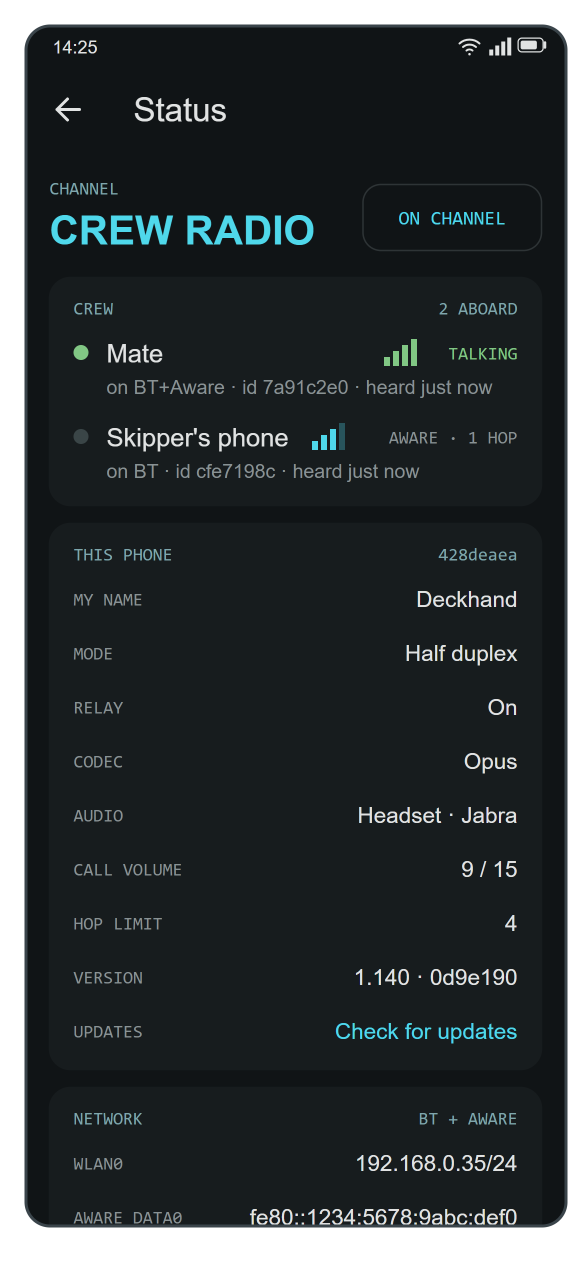
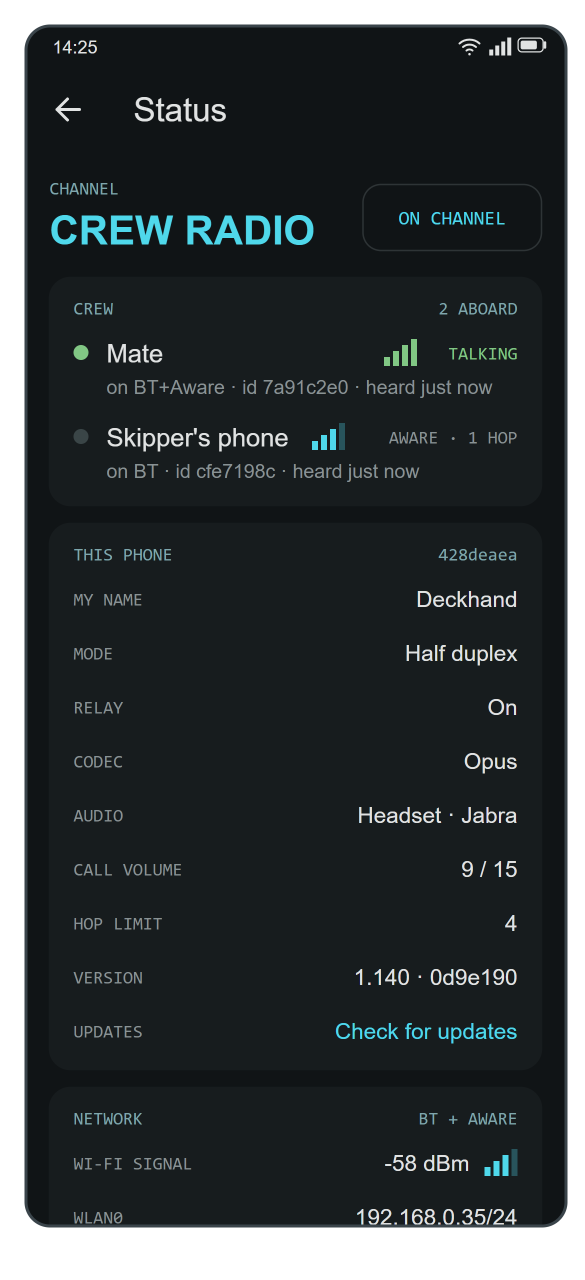
Review: the Wi-Fi signal first in NETWORK, and edge to edge is API 35
The WI-FI SIGNAL row moves to the top of the NETWORK card, where a glance
finds it and where the mock-up, cut at the screen edge as a screenshot is,
actually shows it; both Status drawings re-exported. The edge-to-edge
comment named targetSdk 36 as the threshold; Android 15 enforces it from 35.

Changed region(s): [[0.4308, 0.875, 0.8923, 0.9688], [0.1538, 0.9062, 0.3077, 0.9688], [0.1231, 0.9375, 0.1538, 0.9688]]

diff --git a/app/src/main/java/fi/crewradio/StatusActivity.kt b/app/src/main/java/fi/crewradio/StatusActivity.kt
@@ -178,14 +178,15 @@ class StatusActivity : AppCompatActivity() {
 
         card(R.string.card_network).let { (aside, rows) ->
             netAside = aside
-            nicRows = LinearLayout(this).apply { orientation = LinearLayout.VERTICAL }
-            rows.addView(nicRows)
+            // The Wi-Fi link first, where a glance finds it, then whatever interfaces the phone has.
             rows.addView(kv(R.string.kv_wifi_signal))
             wifiBars = ContextCompat.getDrawable(this, R.drawable.ic_signal)!!.mutate()
             values[R.string.kv_wifi_signal]?.apply {
                 setCompoundDrawablesRelativeWithIntrinsicBounds(null, null, wifiBars, null)
                 compoundDrawablePadding = dp(10)
             }
+            nicRows = LinearLayout(this).apply { orientation = LinearLayout.VERTICAL }
+            rows.addView(nicRows)
             for (label in listOf(R.string.kv_multicast, R.string.kv_aware, R.string.kv_channel_key, R.string.kv_bluetooth)) {
                 rows.addView(kv(label))
             }

diff --git a/docs/diagrams/make_diagrams.py b/docs/diagrams/make_diagrams.py
@@ -467,8 +467,8 @@ def status_screen(p, x, y):
 
     # NETWORK: the interfaces the phone actually has, then the endpoints. Cut off by the screen
     # edge, which is what the rest of a scrolling screen looks like in a screenshot.
-    net = [("WLAN0", "192.168.0.35/24"), ("AWARE_DATA0", "fe80::1234:5678:9abc:def0"),
-           ("WI-FI SIGNAL", "-58 dBm", 3),
+    net = [("WI-FI SIGNAL", "-58 dBm", 3),
+           ("WLAN0", "192.168.0.35/24"), ("AWARE_DATA0", "fe80::1234:5678:9abc:def0"),
            ("MULTICAST", "239.255.42.1:47474"), ("AWARE", "crewradio"),
            ("CHANNEL KEY", "…pd2h (ends)"), ("BLUETOOTH", "Mate's phone")]
     cut = y + FRAME_H

diff --git a/CLAUDE.md b/CLAUDE.md
@@ -390,7 +390,7 @@ MainActivity -(bind)-> PttService -> PttEngine -> Transport (LanTransport | Blue
 - Every user-visible string lives in `res/values/strings.xml` or `arrays.xml` — nothing in Kotlin,
   layouts or `preferences.xml` — so the app can be translated in one pass. `uppercase(Locale.getDefault())`
   for text the crew typed, `Locale.ROOT` for fixed labels.
-- Screens are edge to edge (targetSdk 36 and later enforce it): `WindowCompat.setDecorFitsSystemWindows(window, false)`
+- Screens are edge to edge (targetSdk 35 and later enforce it): `WindowCompat.setDecorFitsSystemWindows(window, false)`
   plus `View.padForWindowInsets()` on the root; Status and Settings carry a `MaterialToolbar` in the
   layout, not a window action bar. No `statusBarColor`/`navigationBarColor`.
 - `lintRelease` is a CI gate with `abortOnError` and `warningsAsErrors`: no errors and no warnings,
